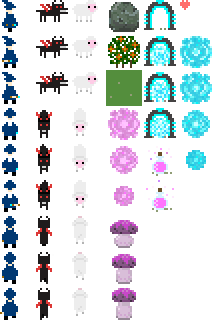
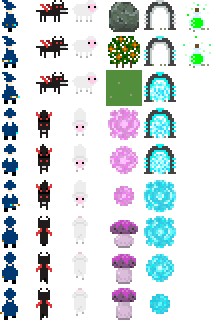
edit styles, refactor frames refactor frames for Portal Blue cloud Potion add Flashing portal frame change Potion color from pink to green

diff --git a/out/dist/css/global.css b/out/dist/css/global.css
@@ -217,5 +217,42 @@ main {
 
 #popup img.foreground {
   position: relative;
+  left: 35%;
+  z-index: 1;
+}
 
+#popup img.middleground-left {
+  width: 70%;
+  position: absolute;
+  right: 0;
+  bottom: 0;
+  z-index: -2;
+  filter: brightness(0.5);
+}
+
+#popup img.middleground-right {
+  width: 70%;
+  position: absolute;
+  right: 0;
+  bottom: 0;
+  z-index: -2;
+  filter: brightness(0.5);
+}
+
+#popup img.background-left {
+  width: 50%;
+  position: absolute;
+  right: 75%;
+  bottom: 0;
+  z-index: -1;
+  overflow: hidden;
+}
+
+#popup img.background-right {
+  width: 70%;
+  position: absolute;
+  right: 0;
+  bottom: 0;
+  z-index: -2;
+  filter: brightness(0.5);
 }

diff --git a/src/animations/portal.ts b/src/animations/portal.ts
@@ -6,13 +6,16 @@ const frames = {
   stand1: getFrame(4, 1),
   stand2: getFrame(4, 2),
   stand3: getFrame(4, 3),
+  stand4: getFrame(4, 4),
 }
 
 /** Animations for a portal.
  * The "off" animation played when the portal is not active. It's just one frame.
+ * The "flashing" animation played when the portal is not active, but the Hero is close to it. It's two frames.
  * The "on" animation played when the portal is active. It's several frames.
  */
 export default {
   off: [frames.stand0],
-  on: [frames.stand1, frames.stand2, frames.stand3],
+  flashing: [frames.stand0, frames.stand1],
+  on: [frames.stand2, frames.stand3, frames.stand4],
 } as const

diff --git a/src/animations/cloud.ts b/src/animations/cloud.ts
@@ -8,10 +8,10 @@ const frames = {
   pinkBig: getFrame(3, 3),
   pinkMiddle: getFrame(3, 4),
   pinkSmall: getFrame(3, 5),
-  blueGiant: getFrame(5, 1),
-  blueBig: getFrame(5, 2),
-  blueMiddle: getFrame(5, 3),
-  blueSmall: getFrame(5, 4),
+  blueGiant: getFrame(4, 5),
+  blueBig: getFrame(4, 6),
+  blueMiddle: getFrame(4, 7),
+  blueSmall: getFrame(4, 8),
 }
 
 // TODO: maybe make cloud green to set any color using filters?

diff --git a/src/animations/potion.ts b/src/animations/potion.ts
@@ -2,8 +2,8 @@ import { getFrame } from "./frame.js"
 
 /** All the frames, available for the potion animation. */
 const frames = {
-  stand1: getFrame(4, 4),
-  stand2: getFrame(4, 5),
+  stand1: getFrame(5, 0),
+  stand2: getFrame(5, 1),
 }
 
 /** Animation for a potion. The "stand" in place with bubbling. */

diff --git a/out/index.html b/out/index.html
@@ -45,7 +45,7 @@
             <img
               src="images/Game_over.png"
               alt="GAME OVER"
-              class="over foreground"
+              class="over foreground pixelarted"
             />
             <h1 class="win">WELL DONE!🥩</h1>
           </div>

diff --git a/src/hero.ts b/src/hero.ts
@@ -9,7 +9,7 @@ const DIAGONAL_SPEED = Math.sqrt(2) / 2
 const SICK_TIME = 5000
 const SICK_SPEED = HERO_SPEED / 3
 
-const LIVES = 0
+const LIVES = 3
 const MAX_FUNGI = 4
 
 const SPAWN_LUCKY_TIME = 5000
